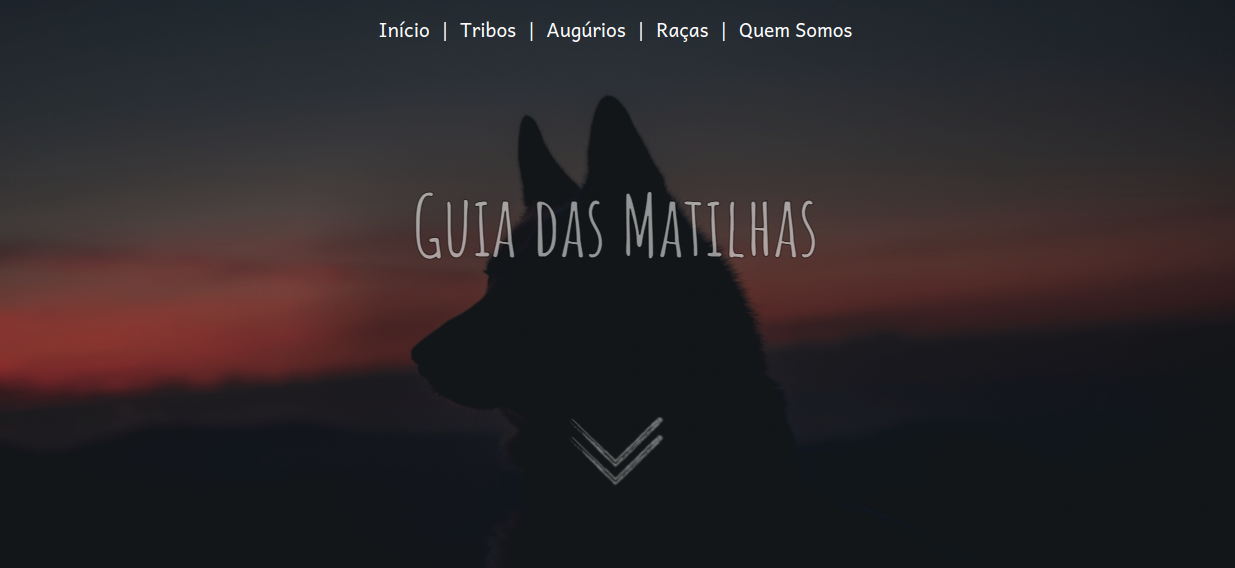
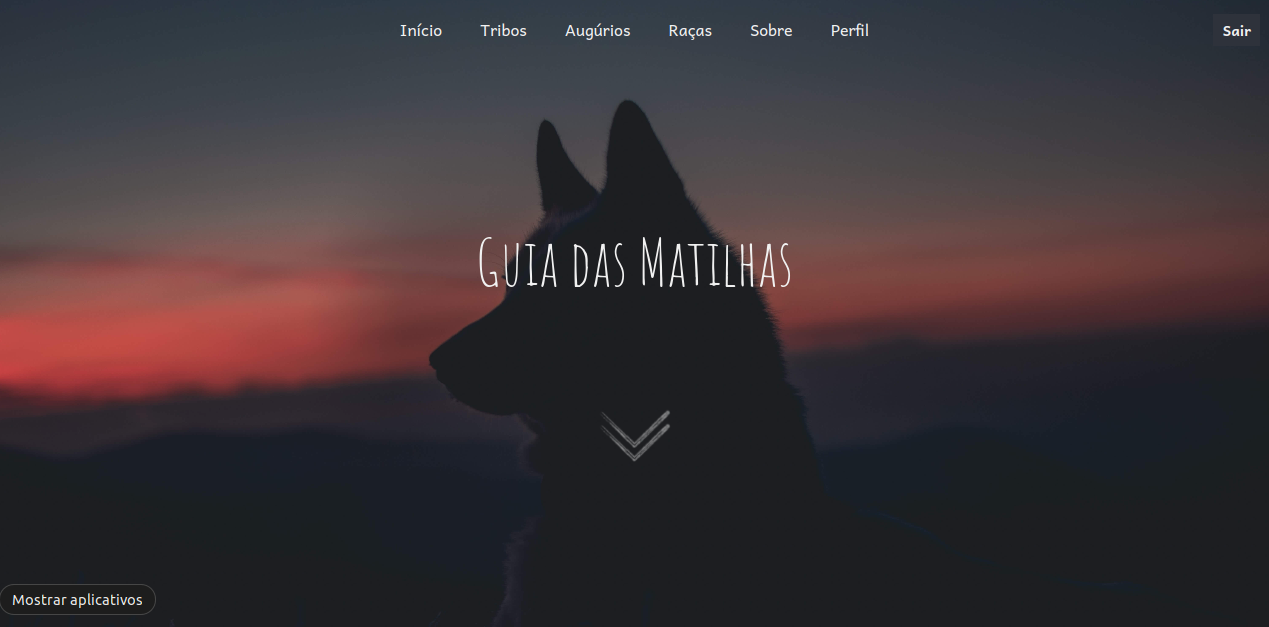
README

diff --git a/README.md b/README.md
@@ -4,9 +4,9 @@
 
 <h3 align="center">https://brunocabralsilva.github.io/guiadasmatilhas/</h3>
 
-![Tela Inicial da Aplicação](front-end/src/images/menu/apresentation01.png)
+![Tela Inicial da Aplicação](src/images/menu/apresentation01.png)
 
-![Menu principal](front-end/src/images/menu/apresentation02.gif)
+![Menu principal](src/images/menu/apresentation02.gif)
 
 <p align="center">
 <img src="http://img.shields.io/static/v1?label=STATUS&message=EM%20DESENVOLVIMENTO&color=GREEN&style=for-the-badge"/>
@@ -110,6 +110,10 @@ OBS - Se estiver utilizando uma conta de Administrador, também haverá um botã
 <li><h4>Sobre</h4></li>
 
 <p> Lugar reservado para falarmos um pouco a respeito de quem somos, quem são nossos grupos e como tudo começou, além de serem compartilhados todos os nossos links de contato.</p>
+
+<li><h4>Perfil</h4></li>
+
+<p> Área onde é possível acessar dados sobre o usuário que está logado, como por exemplo nome e e-mail.</p>
 
 <li><h4>Adicionar um dom (Fluxo administrador)</h4></li>
 
